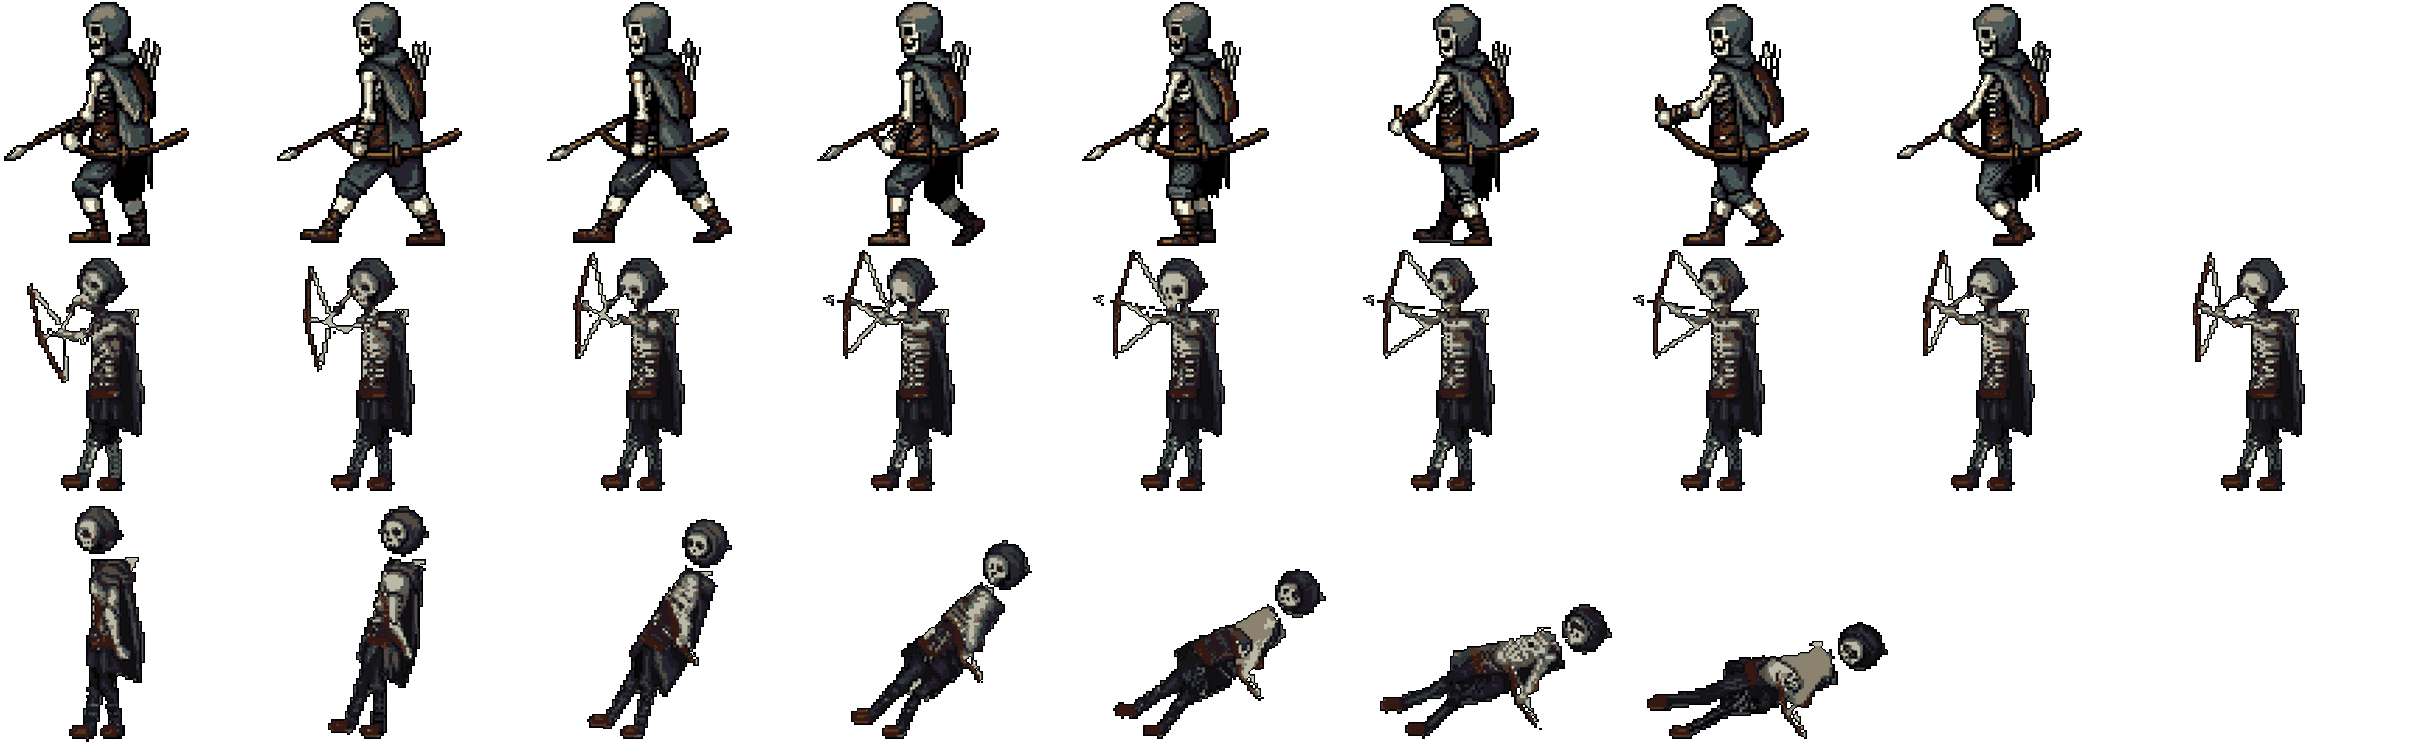
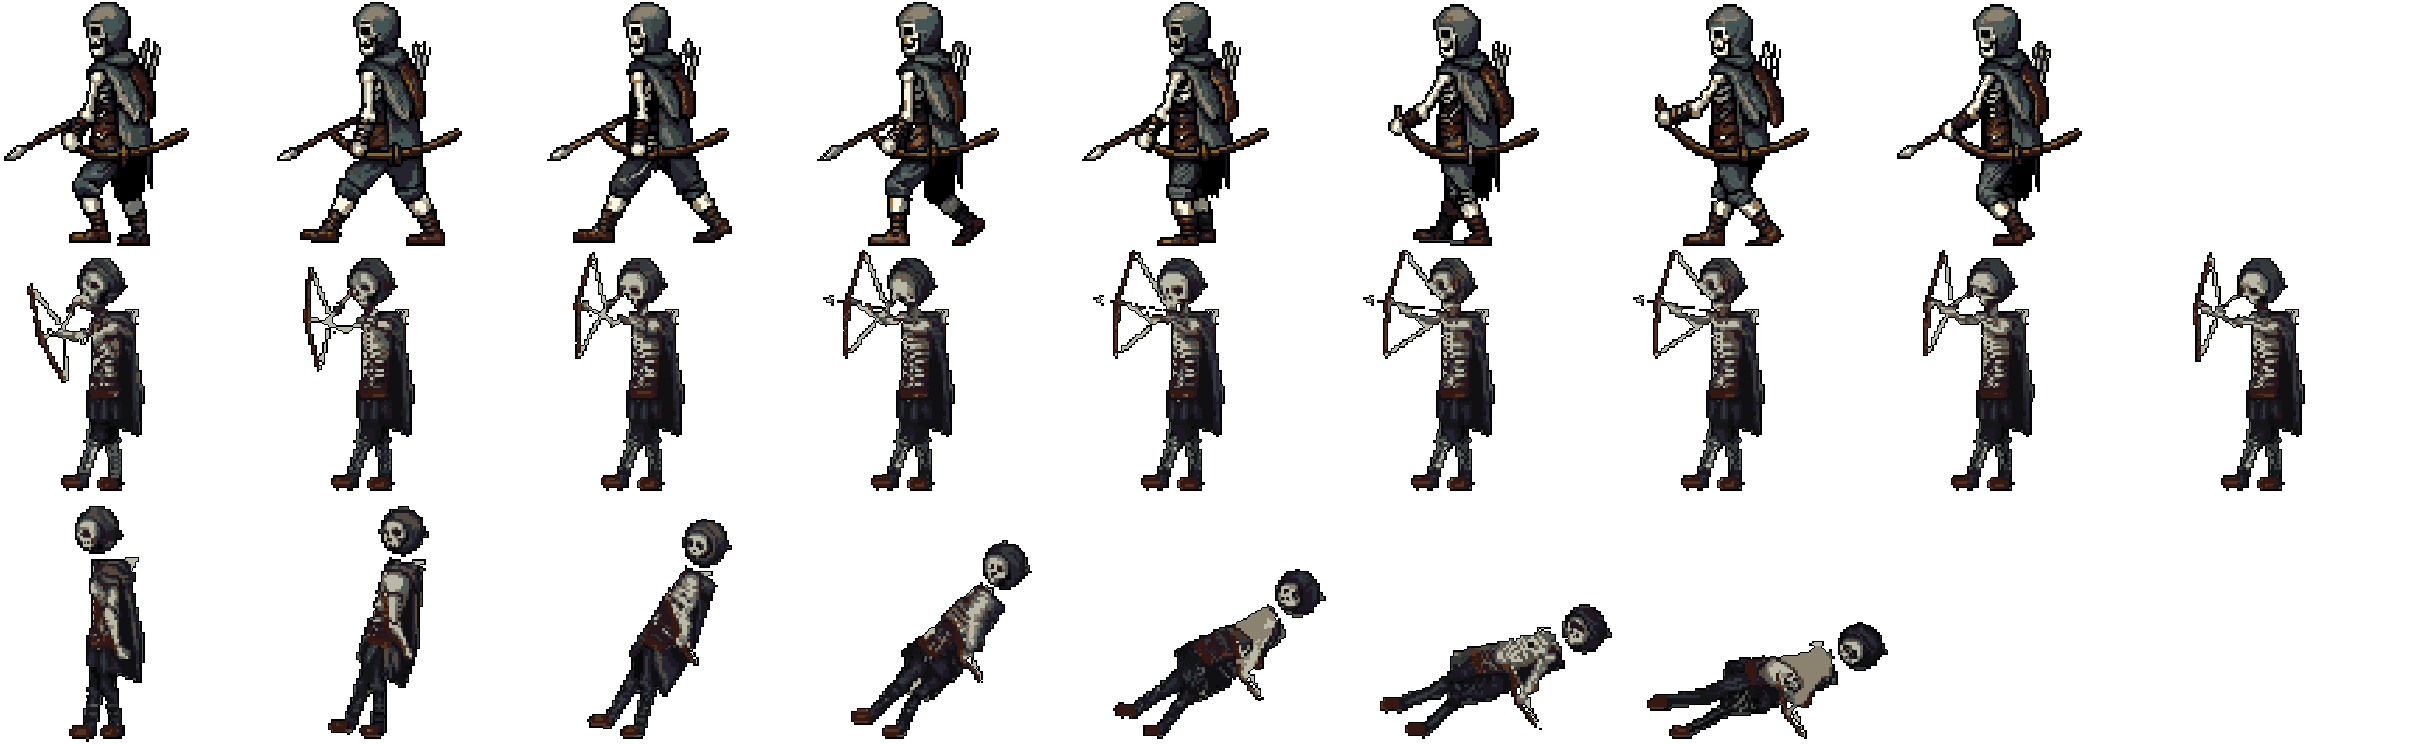
Düşman stil düzeltmeleri (ölçek denetimi)
tirmanici, patlayan, okcuiskelet: keskin (nearest) yeniden örnekleme + sert koyu
dış kontur. patron ve kalkanlidev: en açık metal vurgu renkleri bir ton kısık;
patron ince detayı hafif sadeleşti. kurt: kontrast +%18 (palet de). kosucu:
parlaklık +%10 (palet de). Ekran boyu ve ayak/merkez noktaları değişmedi.

diff --git a/motor-deneme-5b8e2f/uretim/betikler/olcek.py b/motor-deneme-5b8e2f/uretim/betikler/olcek.py
@@ -55,6 +55,21 @@ def ham(unit, etiket, idx):
     return d[-1] if d else None
 
 
+KESKIN = {"tirmanici", "patlayan", "okcuiskelet"}      # sharp (nearest) resample + hard dark outline
+SADE = {"patron": 0.8}                                   # patron: slightly less fine detail
+VURGU_KIS = {"patron", "kalkanlidev"}
+
+
+def son_ayar(unit, box):
+    a = np.asarray(box).astype(np.float32)
+    if unit == "kurt":                                   # pale teal blends into the fog: more contrast
+        m = a.mean((0, 1))
+        a = (a - m) * 1.18 + m
+    if unit == "kosucu":
+        a = a * 1.1
+    return Image.fromarray(np.clip(a, 0, 255).astype(np.uint8))
+
+
 YER = {}
 
 
@@ -91,10 +106,21 @@ def hizala(unit, idx, row, col, g, cur, L):
     return ox + dx, oy + dy, k
 
 
-def palet_of(sheet):
+def palet_of(sheet, kis=False, unit=None):
     a = np.asarray(sheet)
     px = a[a[..., 3] > 200][:, :3]
     renk = np.unique(px, axis=0)
+    if unit in ("kurt", "kosucu"):        # the palette follows the brightness / contrast change
+        m = px.astype(np.float32).mean(0)
+        r_ = renk.astype(np.float32)
+        r_ = (r_ - m) * 1.18 + m if unit == "kurt" else r_ * 1.1
+        renk = np.unique(np.clip(r_, 0, 255).astype(np.uint8), axis=0)
+    if kis:   # the lightest metal highlights one step down
+        lum = renk.astype(np.float32) @ [0.299, 0.587, 0.114]
+        ust = lum >= np.sort(lum)[-3]
+        renk = renk.astype(np.float32)
+        renk[ust] = renk[ust] * 0.88
+        renk = np.clip(renk, 0, 255).astype(np.uint8)
     pal = Image.new("P", (1, 1))
     flat = renk[:256].reshape(-1).tolist()
     pal.putpalette(flat + flat[:3] * (256 - len(renk[:256])))
@@ -113,7 +139,7 @@ def kur(unit, etiket=None, kaydet=False):
     sutun = min(sutun0, MAKS // nfw)
     satir_say = max(r["row"] for r in K["rows"].values()) + 1
     toplam = satir_say * sutun0
-    pal, nrenk = palet_of(sheet)
+    pal, nrenk = palet_of(sheet, kis=unit in VURGU_KIS, unit=unit)
     etiketler = [etiket] if etiket else ETIKET.get(unit, ["v1_s22"])
     hata = []
     yedek_say = [0]
@@ -138,19 +164,24 @@ def kur(unit, etiket=None, kaydet=False):
                 p = None
                 yedek_say[0] += 1
         if not p:                                      # no raw redraw: smooth resample of the sheet
-            box = Image.fromarray(np.asarray(cur)[..., :3]).resize((nfw, nfh), Image.Resampling.BOX if s < 1 else Image.Resampling.LANCZOS)
+            yontem = Image.Resampling.BOX if s < 1 else (Image.Resampling.NEAREST if unit in KESKIN else Image.Resampling.LANCZOS)
+            box = Image.fromarray(np.asarray(cur)[..., :3]).resize((nfw, nfh), yontem)
+        if unit in SADE:                                 # a little less fine detail (patron)
+            box = box.resize((max(1, int(nfw * SADE[unit])), max(1, int(nfh * SADE[unit]))), Image.Resampling.BOX).resize((nfw, nfh), Image.Resampling.NEAREST)
+        box = son_ayar(unit, box)
         # silhouette and fades from the current frame
-        ca = np.asarray(cur.getchannel("A").resize((nfw, nfh), Image.Resampling.BOX))
+        ca = np.asarray(cur.getchannel("A").resize((nfw, nfh), Image.Resampling.NEAREST if unit in KESKIN else Image.Resampling.BOX))
         tam = ca >= 128
         rgb = np.asarray(box.quantize(palette=pal, dither=Image.Dither.NONE).convert("RGB")).copy()
         # outline: where the current frame has a dark silhouette edge, keep it dark
         cur_a = np.asarray(cur)
         kenar_eski = (cur_a[..., 3] > 200) & ~ndimage.binary_erosion(cur_a[..., 3] > 200)
         koyu_kenar = kenar_eski.any() and (cur_a[kenar_eski][:, :3].astype(int).sum(1) < 150).mean() > 0.6
-        if koyu_kenar:
+        if koyu_kenar or unit in KESKIN:
             e = tam & ~ndimage.binary_erosion(tam)
             koyu = cur_a[kenar_eski][:, :3].astype(int)
-            rgb[e] = np.median(koyu[koyu.sum(1) < 150], 0).astype(np.uint8)
+            koyu = koyu[koyu.sum(1) < 150]
+            rgb[e] = (np.median(koyu, 0) if len(koyu) else np.array([22, 17, 20])).astype(np.uint8)
         oa = cur_a[..., 3]
         seviye = int(np.median(oa[oa > 0])) if (oa > 0).any() else 255
         alfa = np.where(tam, min(seviye, 255) if seviye < 250 else 255, 0).astype(np.uint8)
